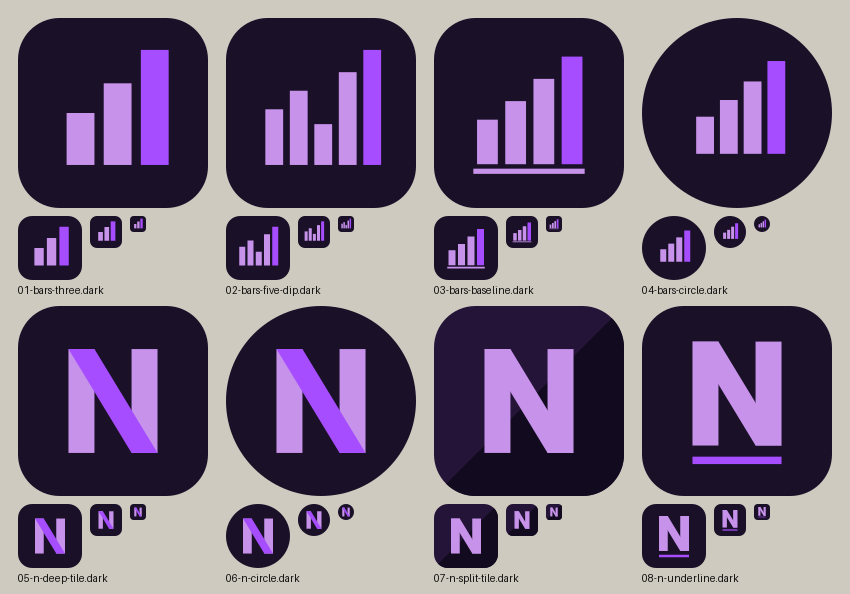
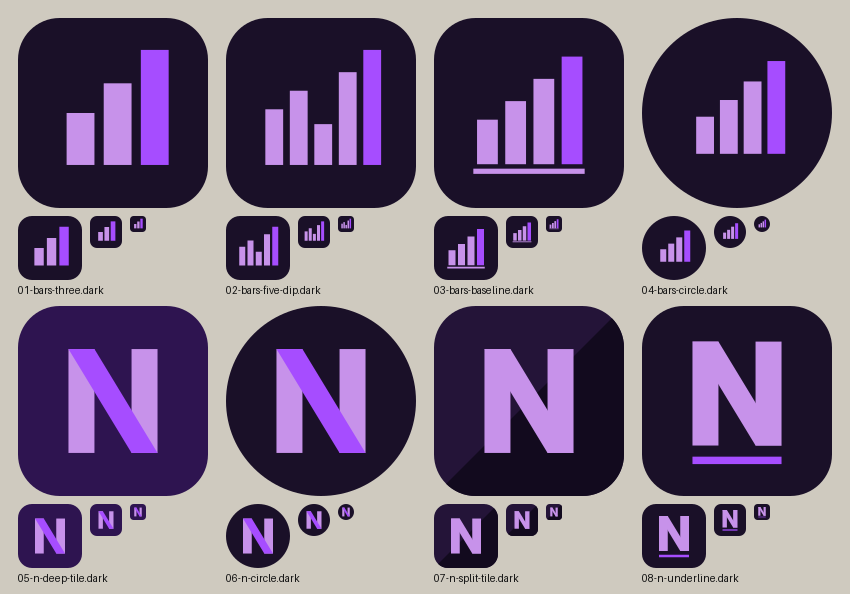
Trim round 2 imports and give the dark deep tile its own color
Drop the unused round1 module import and the unused Y0 and W names.
05-n-deep-tile.dark.svg was byte-identical to round 1's
02-n-accent-diagonal.dark.svg, so the dark sheet showed a repeat. Use a
lifted purple tile (#2E1450) for the dark variant instead. Regenerated the
SVGs and both round 2 contact sheets; two runs match (a00665360208ee5f).

Changed region(s): [[0.0, 0.5152, 0.2447, 0.9697]]

diff --git a/assets/brand/round2.py b/assets/brand/round2.py
@@ -2,8 +2,7 @@
 """NotWallet icon exploration, round 2. Imports round 1 geometry. Deterministic.
 usage: python3 round2.py OUTDIR"""
 import hashlib, os, sys
-import round1 as r1
-from round1 import THEMES, PURPLE, ACCENT, svg, n_parts, X0, X1, Y0, Y1, W
+from round1 import THEMES, PURPLE, ACCENT, svg, n_parts, X0, X1, Y1
 
 DEEP = "#4B1272"          # a darker purple than the OneNote-like #9932CC square
 
@@ -36,7 +35,9 @@ def b4(t):  # four rising bars in a circle container (no square tile at all)
 
 
 def n_deep(t):  # 02 on a deeper tile: further from the OneNote purple
-    tile = DEEP if t is THEMES["light"] else "#1A1028"
+    # Dark uses a lifted purple tile of its own. On the near-black #1A1028 this
+    # was byte-identical to round 1's 02-n-accent-diagonal.dark.
+    tile = DEEP if t is THEMES["light"] else "#2E1450"
     return svg(n_parts(t["fg"], ACCENT if t is THEMES["light"] else t["accent"]), tile)
 
 
